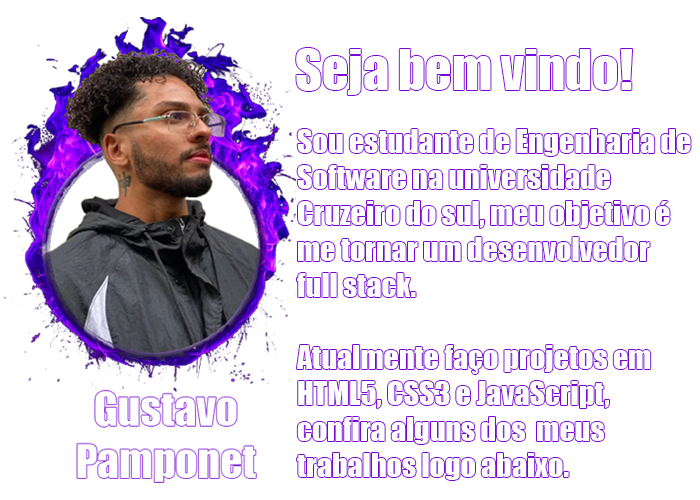
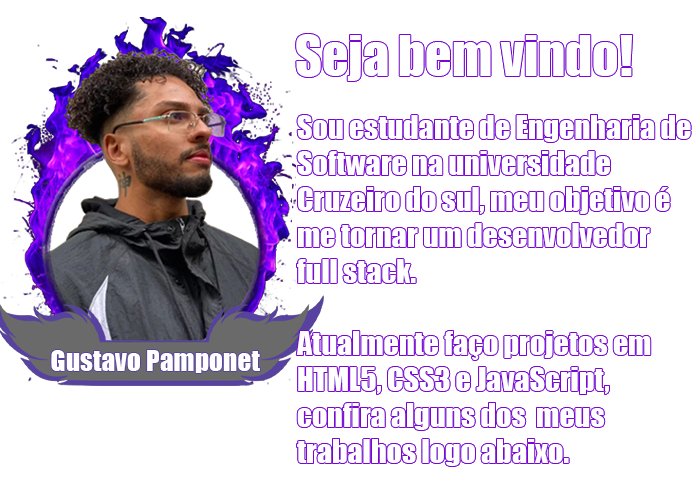
up

diff --git a/index.html b/index.html
@@ -27,8 +27,8 @@
                <picture>
                     <source media="(min-width:900px)" srcset="./imagem/apresentação-teste.png" type="image/png">
                     <source media="(min-width:700px)" srcset="./imagem/apresentação-700px.png" type="image/png">
-                    <source media="(min-width:500px)" srcset="./imagem/apresentação-500px.png" type="image/png">
-                    <img src="imagem/apresentação-320px.png" alt="Apresentação 500px">
+                    <source media="(min-width:500px)" srcset="./imagem/apresentação-500-800px.png" type="image/png">
+                    <img src="imagem/apresentação-320-800px.png" alt="Apresentação 500px">
                 </picture>
            </div>
 

diff --git a/pagsmq.css b/pagsmq.css
@@ -1,6 +1,9 @@
 @charset "UTF8";
 
 @media screen and (min-width:650px) and (max-width:1080px){
+    main > section#apr
+    {height: 500px;}
+
     section#trabalhos
     {max-width:640px;
     display:block;
@@ -15,6 +18,10 @@
 }
 
 @media screen and (min-width:1080px){
+
+    main > section#apr
+    {height: 500px;}
+
     section#trabalhos
     {max-width:974px;
     display:block;

diff --git a/pag01.css b/pag01.css
@@ -64,7 +64,7 @@ main > section#apr
 background-repeat: no-repeat;
 background-size:cover;
 background-attachment: fixed;
-height: 500px;}
+height: 800px;}
 
 main > section#apr div#img
 {display: block;
